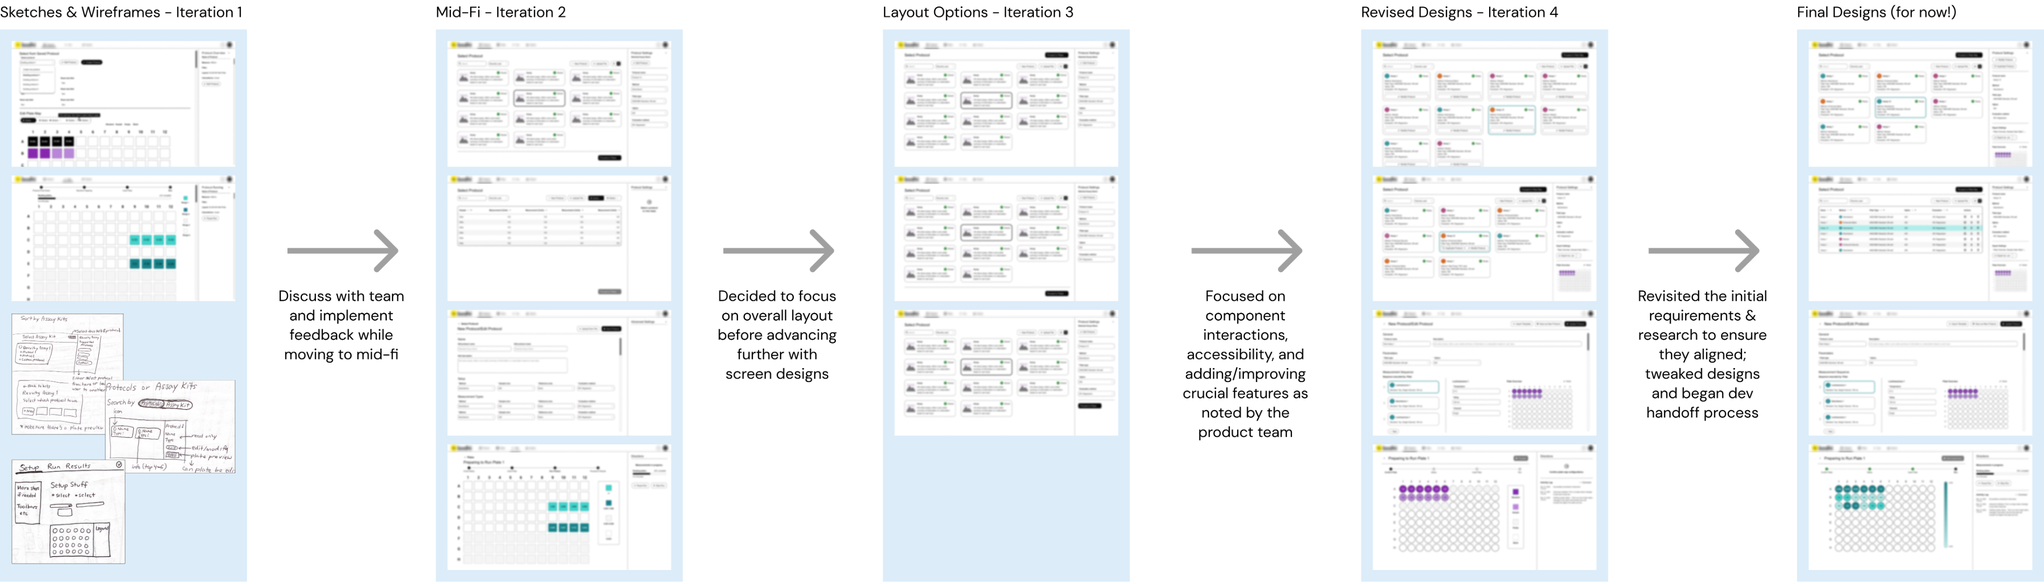
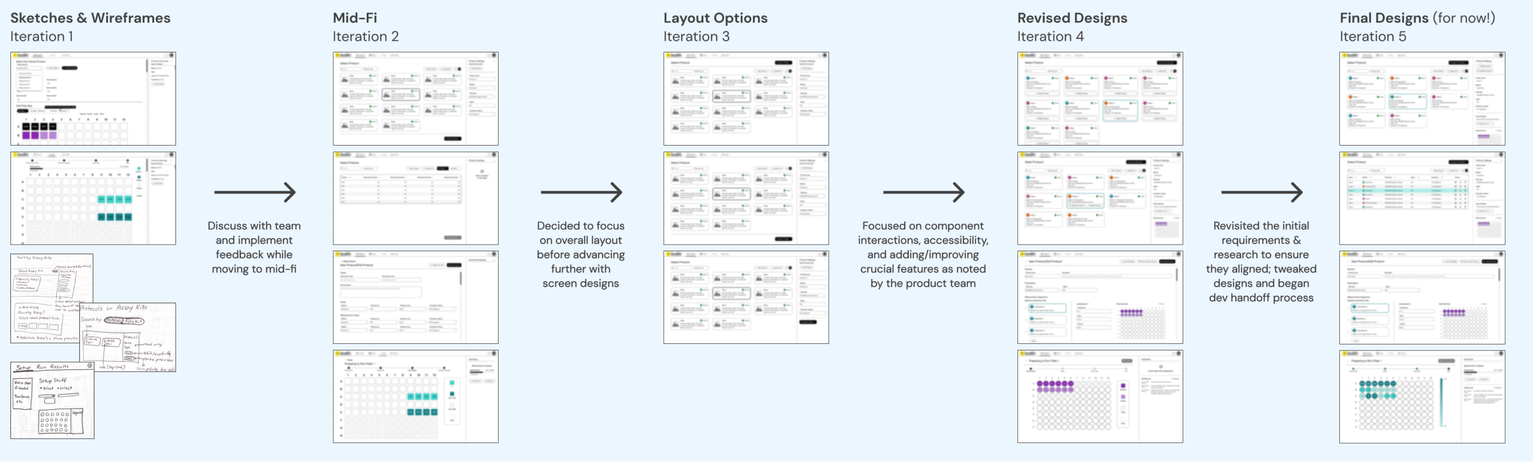
updated page titles. updated images for plate reader and winprep case studies (light colour background). updated h6 text colour.

diff --git a/bodhi.html b/bodhi.html
@@ -4,7 +4,7 @@
       <meta charset="UTF-8">
       <link rel="shortcut icon" href="/Images/VS Icon.png" alt="favicon image for website depicting the VS emoji"> <!--favicon-->
       <meta http-equiv='X-UA-Compatible' content='IE=edge'>
-      <title>Vanessa's Portfolio</title>
+      <title>Revvity Plate Reader Design | Vanessa's Portfolio</title>
       <meta name="viewport" content="width=device-width, initial-scale=1.0">
       <meta name="description" content="Bodhi is a project aimed at improving the experience of plate reader applications
       used in life sciences and diagnostics. The goal is to create a flexible and scalable product that can work for any plate
@@ -88,12 +88,9 @@
               <div class="one-half-column">
                 <div class="row-in-column">
                     <h3>Overview</h3>
-                    <p>The purpose of this project is to improve the experience of plate reader applications
-                      used in life sciences and diagnostics. Current products on the market are known to have
-                      poor usability with outdated and inconsistent interfaces, along with constant information
-                      overload. The goal is to create a flexible and scalable product that can work for any plate
-                      reader protocol. Through quick rounds of iteration we worked to design an MVP, guided by
-                      research insights from myself and other team members.</p>
+                    <p>
+                      The purpose of this project is to improve the experience of plate reader applications used in life sciences and diagnostics. Current products on the market are known to have poor usability with outdated and inconsistent interfaces, along with constant information overload. The goal is to create a flexible and scalable product that can work for any plate reader protocol. Through quick rounds of iteration we worked to design an MVP, guided by research insights from myself and other team members.
+                    </p>
                 </div>
               </div>
 
@@ -102,10 +99,10 @@
                     <h3>Team</h3>
                     <p><b>Designers</b></p>
                     <p class="small">Vanessa Szymanski<br>Joyce Ng</p>
-                    <p><b>Mentors</b></p>
-                    <p class="small">Sharath Sundar<br>Maria Ralph</p>
                     <p><b>Product Manager</b></p>
                     <p class="small">Addie Lotito</p>
+                    <p><b>Developer</b></p>
+                    <p class="small">Blair Caple</p>
                 </div>
               </div>
 
@@ -141,23 +138,15 @@
               <h3>Background</h3>
             </div>
             <div class="ten-twelfth-column">
-              <p>Plate reader applications are typically used in clinical and laboratory settings,
-                in which a technician needs to run a protocol or assay. Their workflow involves
-                pipetting samples and reagents into well plate(s) (also known as micro-plates),
-                setting up the hardware and software, and running the experiment.
+              <p>
+                Plate reader applications are typically used in clinical and laboratory settings, in which a technician needs to run a protocol or assay. Their workflow involves pipetting samples and reagents into well plate(s) (also known as micro-plates), setting up the hardware and software, and running the experiment.
               </p>
               <p>
-                The current market for plate reader applications is fragmented, with hundreds of inflexible
-                products each designed for specific use cases. This means labs must purchase multiple products
-                to accommodate various assays, leading to inefficiencies and added costs. Technicians also face
-                challenges such as poor usability, outdated and inconsistent interfaces, and information overload,
-                which are common problems across scientific software.
+                The current market for plate reader applications is fragmented, with hundreds of inflexible products each designed for specific use cases. This means labs must purchase multiple products to accommodate various assays, leading to inefficiencies and added costs. Technicians also face challenges such as poor usability, outdated and inconsistent interfaces, and information overload, which are common problems across scientific software.
               </p>
               <div class="callout callout-blue">
                 <h4>
-                  Our solution: Create a functional, flexible, and user-friendly plate reader that combines
-                  diverse use cases into a single, delightful product, effectively replacing the majority of existing
-                  tools and filling the current market gap.
+                  Our solution: Create a functional, flexible, and user-friendly plate reader that combines diverse use cases into a single, delightful product, effectively replacing the majority of existing tools and filling the current market gap.
                 </h4>
               </div>
             </div>
@@ -169,21 +158,14 @@
             </div>
             <div class="ten-twelfth-column">
               <h6>Prior Research</h6>
-              <p>The user research team provided us with a workflow analysis, mapping out the
-                steps of a typical user setting up and running an experiment using a well plate.
-                For the purpose of quickly reaching an MVP, we focused only on the simplest
-                workflow, in which the user is selecting a pre-defined protocol. There are five
-                main sections in the flow: sign in, select protocol, run protocol, view results,
-                and export results. The product manager also provided us with a set of proto-personas
-                to get started.</p>
+              <p>
+                The user research team provided us with a workflow analysis, mapping out the steps of a typical user setting up and running an experiment using a well plate. For the purpose of quickly reaching an MVP, we focused only on the simplest workflow, in which the user is selecting a pre-defined protocol. There are five main sections in the flow: sign in, select protocol, run protocol, view results, and export results. The product manager also provided us with a set of proto-personas to get started.
+              </p>
 
               <div class="row-in-column fade-in">
                 <h6>Competitive Analysis</h6>
-                <p>Before diving into design, I worked with my co-designer on a competitive analysis
-                  to better understand the market. We looked at four existing products in the problem space
-                  and pulled out key insights from each one, highlighting what was unique
-                  along with the common themes across products. We also roughly mapped the workflow for each
-                  application to see which patterns are most common, as this may influence user expectations.
+                <p>
+                  Before diving into design, I worked with my co-designer on a competitive analysis to better understand the market. We looked at four existing products in the problem space and pulled out key insights from each one, highlighting what was unique along with the common themes across products. We also roughly mapped the workflow for each application to see which patterns are most common, as this may influence user expectations.
                 </p>
                 <img class="case-study-inline-pics" src="/Images/Bodhi-Compet-Analysis.png" alt="sample from competitive analysis">
               </div>
@@ -202,7 +184,7 @@
               <div class="row-in-column fade-in">
                   <h6>Iterative Design</h6>
                   <p>
-                      We followed a 'fail fast, learn fast' philosophy with this project, creating a lot of iterations in close collaboration with the team: a product manager, developer, and our design/research advisors. While the actual process was a lot messier than what's shown below, it can be summarized into five iterations or stages, starting with sketches and ending with final designs. After each step, we made sure to align with the team and decide on our priorities for the next stage. As with any design process, we added more details in each round as we ironed out the requirements and integrated feedback.
+                      We followed a 'fail fast, learn fast' approach with this project, iterating constantly in close collaboration with the team: a product manager, developer, and our design/research advisors. While the actual process was a lot messier than what's shown below, it can be summarized into five iterations or stages, starting with sketches and ending with final designs. After each step, we made sure to align with the team and decide on our priorities for the next stage. As with any design process, we added more details in each round as we ironed out the requirements and integrated feedback.
                   </p>
                   <img class="case-study-inline-pics" src="/Images/Bodhi-Design-Iterations.png" alt="diagram showing iterative process">
               </div>
@@ -210,41 +192,27 @@
               <div class="row-in-column fade-in">
                   <h6>Brainstorming & Sketching</h6>
                   <p>
-                    I find it helpful to formulate my thoughts and ideas on paper first, so I started with a few (messy) sketches.
-                    Looking at references from our design system, the company's other products, and competitors, I began to plan out
-                    what the screens may look like. I used a compilation of
-                    products (from within and outside of the company) to inform my design options at this stage, along with the workflow
-                    map to see how the steps are typically divided.
+                    I find it helpful to formulate my thoughts and ideas on paper first, so I started with a few (messy) sketches. Looking at references from our design system, the company's other products, and competitors, I began to plan out what the screens may look like. I used a compilation of products (from within and outside of the company) to inform my design options at this stage, along with the workflow map to see how the steps are typically divided.
                   </p>
                   <img class="case-study-inline-pics" src="/Images/Bodhi-Sketches.png" alt="initial hand drawn sketches">
                   <div class="callout callout-blue">
                     <h4>
-                      The main challenge during this phase was designing the navigation, as it had to incorporate functionality from three different
-                      applications. We carefully planned the information architecture to ensure all features fit seamlessly into
-                      a single navigation bar.
+                      The main challenge during this phase was designing the navigation, as it had to incorporate functionality from three different applications. We carefully planned the information architecture to ensure all features fit seamlessly into a single navigation bar.
                     </h4>
                   </div>
                   <p>
-                    I discussed the sketches with my co-designer and compared our ideas. We then moved into Figma and began rough layouts
-                    and wireframes, slowly building up the level of detail and making sure to leave notes on any questions or assumptions
-                    for future reference.
+                    I discussed the sketches with my co-designer and compared our ideas. We then moved into Figma and began rough layouts and wireframes, slowly building up the level of detail and making sure to leave notes on any questions or assumptions for future reference.
                   </p>
               </div>
 
               <div class="row-in-column fade-in">
                 <h6>Decision Making Process: Layout</h6>
                 <p>
-                    After the third round of iterating, we had multiple options for aspects concerning the layout and structure.
-                    The main point of discussion was the location of the primary call-to-action (CTA) button on each page. We deliberated
-                    over the best location to put this element. There were three options that could've worked, and it seemed to depend
-                    on the type of content being shown, which varied greatly.
+                    After the third round of iterating, we had multiple options for the layout and structure. The main point of discussion was the location of the primary call-to-action (CTA) button on each page. We deliberated over the best location to put this element. There were three options that could've worked, and it seemed to depend on the type of content being shown, which varied greatly.
                 </p>
                 <img class="case-study-inline-pics" src="/Images/Bodhi-Layout-Iteration.png" alt="three layout options for button placement">
                 <p>
-                    We decided on Layout 1 in the end, going back to UX principles and common patterns. Since the CTA is directly
-                    related to each page title and it represents moving to the next step, we decided to place it in the top right corner,
-                    vertically aligned with the title and above the main content. This choice maximizes vertical space while ensuring the
-                    action is always visible, even if the user scrolls or hides the sidebar.
+                    We decided on Layout 1 in the end, going back to UX principles and common patterns. Since the CTA is directly related to each page title and it represents moving to the next step, we decided to place it in the top right corner, vertically aligned with the title and above the main content. This choice maximizes vertical space while ensuring the action is always visible, even if the user scrolls or hides the sidebar.
                 </p>
             </div>
             
@@ -252,13 +220,7 @@
               <div class="row-in-column fade-in">
                 <h6>Final Designs</h6>
                 <p>
-                  We ran two more rounds of iteration and continued to add features, comprising a final set of 10 screens that illustrated
-                  the most critical aspects of the workflow. In this MVP, users can view
-                  and select their protocols from a card or table view. They can access a sidebar for making quick edits to the
-                  protocol/plate, or access more advanced settings to modify it further. They can also upload protocols from a file
-                  or create new ones. After selecting a protocol, they can confirm/edit the plate map, and are guided by the software
-                  at this stage to set up for the experiment. Once setup is complete, the experiment will run and display live updates
-                  on the screen. Finally, the user can access a variety of export settings to suit their needs.
+                  We ran two more rounds of iteration and continued to add features, comprising a final set of 10 screens that illustrated the most critical aspects of the workflow. In this MVP, users can view and select their protocols from a card or table view. They can access a sidebar for making quick edits to the protocol/plate, or access more advanced settings to modify it further. They can also upload protocols from a file or create new ones. After selecting a protocol, they can confirm/edit the plate map, and are guided by the software at this stage to set up for the experiment. Once setup is complete, the experiment will run and display live updates on the screen. Finally, the user can access a variety of export settings to suit their needs.
                 </p>
                 <img class="case-study-inline-pics" src="/Images/Bodhi-Final-Designs.png" alt="sample from competitive analysis">
               </div>
@@ -271,22 +233,15 @@
             </div>
             <div class="ten-twelfth-column">
               <p>
-                This design project was very fast-paced, including three design reviews that took place only a few days apart,
-                due to the tight timeline. I was surprised and proud to see how much we could accomplish in this timeframe, and
-                helped me understand the value of sprints like this and the agile environment in which this took place.
+                This design project was very fast-paced, including three design reviews that took place only a few days apart, due to the tight timeline. I was surprised and proud to see how much we could accomplish in this timeframe, and helped me understand the value of sprints like this and the agile environment in which this took place.
               </p>
               <div class="callout callout-blue">
                 <h4>
-                  Most existing applications in this field have crowded interfaces which can be overwhelming.
-                  Through progressive disclosure techniques, we can show the user exactly what
-                  they need for the task they’re performing, while keeping other information off
-                  the screen until they need it.
+                  Most existing applications in this field have crowded interfaces which can be overwhelming. Through progressive disclosure techniques, we can show the user exactly what they need for the task they’re performing, while keeping other information off the screen until they need it.
                 </h4>
               </div>
               <p>
-                When working with complex and scientific applications, it's crucial to consult industry experts and/or proxy users
-                throughout the process. They can help you block out the noise (regarding technical jargon, understanding the science
-                behind the process, etc.) and understand what users value.
+                When working with complex and scientific applications, it's crucial to consult industry experts and/or proxy users throughout the process. They can help you block out the noise (regarding technical jargon, understanding the science behind the process, etc.) and understand what users value.
               </p>
             </div>
           </div>
@@ -297,12 +252,7 @@
             </div>
             <div class="ten-twelfth-column">
               <p>
-                We took all the functionality from multiple products to build a powerful,
-                flexible, and scalable product with clear workflows and refreshed UI.
-                Further rounds of iteration will be required to bring the project to an MVP
-                stage, as we only had a few weeks to work on the project. However, the team
-                learned a lot throughout this short sprint, and it was very impactful for me
-                to work on the end-to-end design of a complex application like this one.
+                We took all the functionality from multiple products to build a powerful, flexible, and scalable product with a clear workflow and refreshed UI. Further rounds of iteration will be required to build out the remaining features and implement feedback from customers, as we only had a few weeks to work on the project. However, the team learned a lot throughout this short sprint, and it was very impactful for me to work on the end-to-end design of a complex application.
               </p>
             </div>
           </div>

diff --git a/winprep.html b/winprep.html
@@ -4,7 +4,7 @@
       <meta charset="UTF-8">
       <link rel="shortcut icon" href="/Images/VS Icon.png" alt="favicon image for website depicting the VS emoji"> <!--favicon-->
       <meta http-equiv='X-UA-Compatible' content='IE=edge'>
-      <title>Vanessa's Portfolio</title>
+      <title>Revvity WinPREP | Vanessa's Portfolio</title>
       <meta name="viewport" content="width=device-width, initial-scale=1.0">
       <meta name="description" content="In this project, I revamped the design of WinPREP, a B2B biotech application that’s commonly used by researchers in life sciences. I worked on the end-to-end product design and considered the hardware-to-software connection involved with this product. At the same time, I used our newly-rebranded design system to create the UI, which served as an example for the rest of the team and helped promote its use. This product is fully released and undergoing testing with customers. In addition to the changes that were implemented by dev, we provided 5+ future recommendations for them to consider.">
 
@@ -72,7 +72,7 @@
         <div class="row" style="margin-top: 15vh; margin-bottom: 0vh">
           <div class="whole-column">
             <p>REVVITY CO-OP</p>
-            <h2>Re-Designing a Biotech Lab Application</h2>
+            <h2>Re-Designing a Biotech Lab Software</h2>
           </div>
         </div>
 
@@ -134,7 +134,7 @@
             </div>
             <div class="ten-twelfth-column">
                 <p>
-                  WinPREP is a software designed to work with the Fontus hardware system, which are both produced by Revvity (previously known as PerkinElmer). Following the company divestiture, 80+ Revvity products had to be rebranded within a year to comply with legal requirements. This was a massive undertaking for most teams, especially those without embedded UXers. Myself and one other designer were asked to help this team rebrand. Thinking long-term, we also took the opportunity to re-design certain areas, based on user pain points and usability issues.
+                  WinPREP is a software designed to work with the Fontus hardware system, which are both produced by Revvity (previously known as PerkinElmer). Following the company divestiture, 80+ Revvity products had to be rebranded within a year to comply with legal requirements. This was a massive undertaking for most teams, especially those without embedded UXers. Myself and one other designer were asked to help this team rebrand. Thinking long-term, we also took the opportunity to re-design the application based on user pain points and usability issues.
                 </p>
                 <p>
                   This case study will showcase our transformation of WinPREP, the challenges we overcame, the UX principles we followed, and the end result.
@@ -155,8 +155,13 @@
             <div class="ten-twelfth-column">
                 <h6>From the team</h6>
                 <p>
-                  To understand the context, we met with project stakeholders (product manager, developers, proxy users, subject matter experts) to discuss the current state, requirements, and team priorities. We learned that the developers were actually in a code-freeze period, so the work had to be completed very urgently. They were due for a software update and senior leadership expected the product to be rebranded in time for this. We also started learning the general workflow after speaking to our proxy users.
+                  To understand the project context, we met with stakeholders (product manager, developers, proxy users, subject matter experts) to discuss the current state, requirements, and team priorities. We also started learning the general workflow after speaking to our proxy users.
                 </p>
+                <div class="callout callout-purple">
+                  <h4>
+                    We learned that the developers were already in a code-freeze period, so the work had to be completed very urgently. They were due for a software update and senior leadership expected the product to be rebranded in time for this.
+                  </h4>
+                </div>
 
                 <div class="row-in-column fade-in">
                     <h6>From the lab</h6>
@@ -258,7 +263,7 @@
                 <div class="row-in-column fade-in">
                     <h6>First iteration</h6>
                     <p>
-                      To start out, we worked on the 6 main application screens. We made improvements to the most critical usability issues and rebranded components to align with Revvity standards.
+                      To start out, I worked on the 6 main application screens with my co-designer. We made improvements to the most critical usability issues and rebranded components to align with Revvity standards. This was also a test exercise in using our design system, since this was the first product to fully adopt its UI.
                     </p>
                     <p>
                       <ul class="regular-list">
@@ -340,6 +345,9 @@
                   </li>
                   <li>
                     It’s better to get something approved and released by the product team, rather than nothing at all! Always work with your team to see what’s possible. In this case, we created a second, improved version to encourage future development, but still allowed the team to meet their deadlines with an ‘MVP’ style re-design.
+                  </li>
+                  <li>
+                    I learned how to use product design challenges to inform the company design system. Since many of our components had not been tested on real products yet, this helped to identify what was and wasn't working. The insights gathered from this project were pulled back into the design system and we improved 3 components.
                   </li>
                 </ul>
               </p>

diff --git a/workflowmapping.html b/workflowmapping.html
@@ -4,7 +4,7 @@
       <meta charset="UTF-8">
       <link rel="shortcut icon" href="/Images/VS Icon.png" alt="favicon image for website depicting the VS emoji"> <!--favicon-->
       <meta http-equiv='X-UA-Compatible' content='IE=edge'>
-      <title>Vanessa's Portfolio</title>
+      <title>Revvity Hospital Lab Research | Vanessa's Portfolio</title>
       <meta name="viewport" content="width=device-width, initial-scale=1.0">
       <meta name="description" content="This research project took place in pre-natal testing labs at two major
       Ontario hospitals. It involved observing and interviewing lab technicians and managers to understand their

diff --git a/designsystem.html b/designsystem.html
@@ -4,7 +4,7 @@
       <meta charset="UTF-8">
       <link rel="shortcut icon" href="/Images/VS Icon.png" alt="favicon image for website depicting the VS emoji"> <!--favicon-->
       <meta http-equiv='X-UA-Compatible' content='IE=edge'>
-      <title>Vanessa's Portfolio</title>
+      <title>PerkinElmer & Revvity Design System | Vanessa's Portfolio</title>
       <meta name="viewport" content="width=device-width, initial-scale=1.0">
       <meta name="description" content="This project is an ongoing effort at Revvity to create one source of truth
       for all product design in the company, encompassing software, hardware, and reagents.">

diff --git a/flourish.html b/flourish.html
@@ -4,7 +4,7 @@
       <meta charset="UTF-8">
       <link rel="shortcut icon" href="/Images/VS Icon.png" alt="favicon image for website depicting the VS emoji"> <!--favicon-->
       <meta http-equiv='X-UA-Compatible' content='IE=edge'>
-      <title>Vanessa's Portfolio</title>
+      <title>Adobe x MTV Designathon | Vanessa's Portfolio</title>
       <meta name="viewport" content="width=device-width, initial-scale=1.0">
       <meta name="description" content="Flourish is a mobile application that aims to empower people through education,
       knowledge and advocacy for period poverty. To encourage everyday use, it is also

diff --git a/creative.html b/creative.html
@@ -4,7 +4,7 @@
       <meta charset="UTF-8">
       <link rel="shortcut icon" href="/Images/VS Icon.png" alt="favicon image for website depicting the VS emoji"> <!--favicon-->
       <meta http-equiv='X-UA-Compatible' content='IE=edge'>
-      <title>Vanessa's Portfolio</title>
+      <title>Creative | Vanessa's Portfolio</title>
       <meta name="viewport" content="width=device-width, initial-scale=1.0">
       <meta name="description" content="Creative works page on Vanessa Szymanski's portfolio.">
 

diff --git a/about.html b/about.html
@@ -4,7 +4,7 @@
       <meta charset="UTF-8">
       <link rel="shortcut icon" href="/Images/VS Icon.png" alt="favicon image for website depicting the VS emoji"> <!--favicon-->
       <meta http-equiv='X-UA-Compatible' content='IE=edge'>
-      <title>Vanessa's Portfolio</title>
+      <title>About | Vanessa's Portfolio</title>
       <meta name="viewport" content="width=device-width, initial-scale=1.0">
       <meta name="description" content="About page on Vanessa Szymanski's portfolio.">
 

diff --git a/a-textStyles.css b/a-textStyles.css
@@ -64,7 +64,7 @@ h6 {
     font-weight: 700;
     letter-spacing: 0.25px;
     text-transform: uppercase;
-    color: #848484;
+    color: #3c3c3c;
     margin-top: 0px;
     margin-bottom: 4px;
 }
